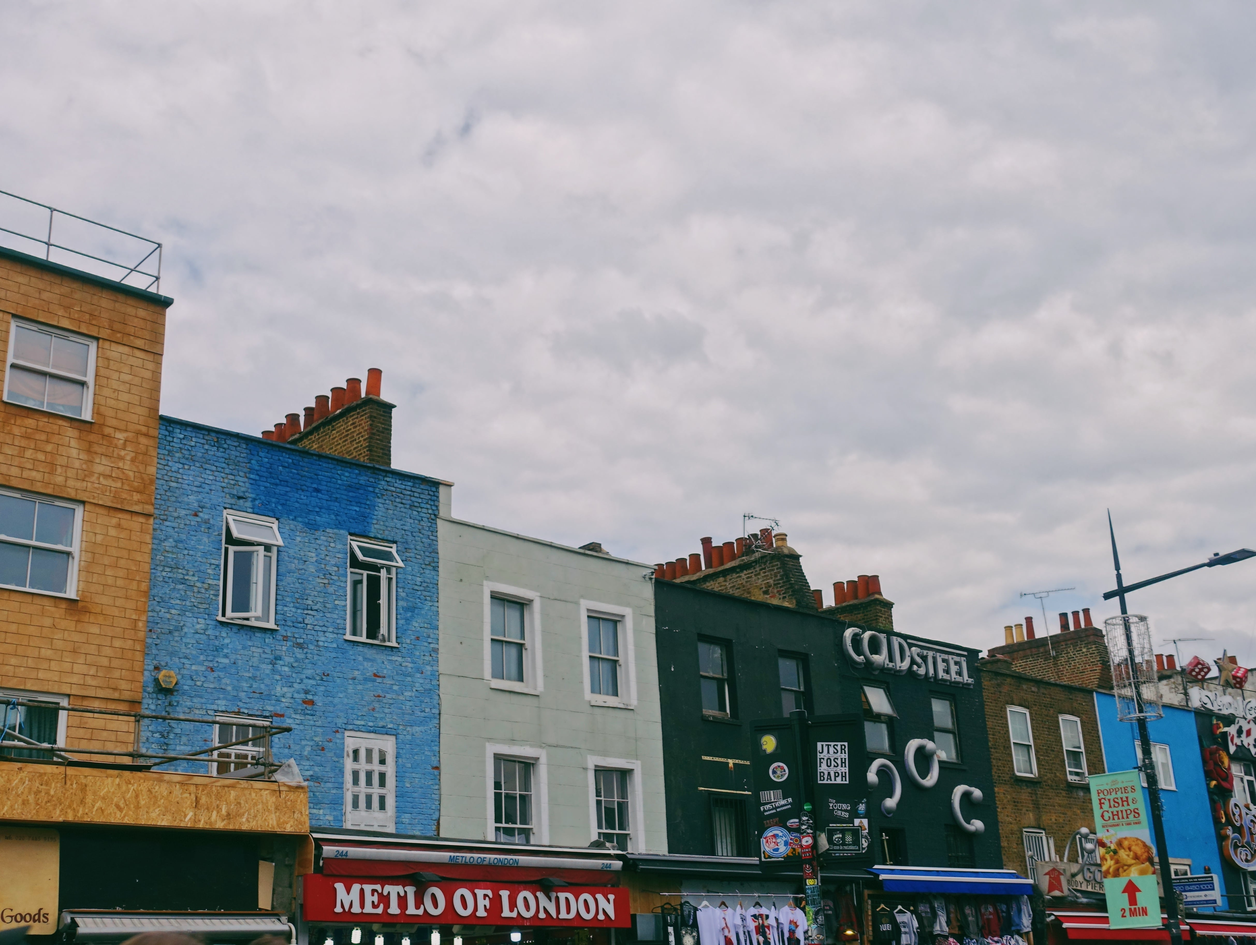
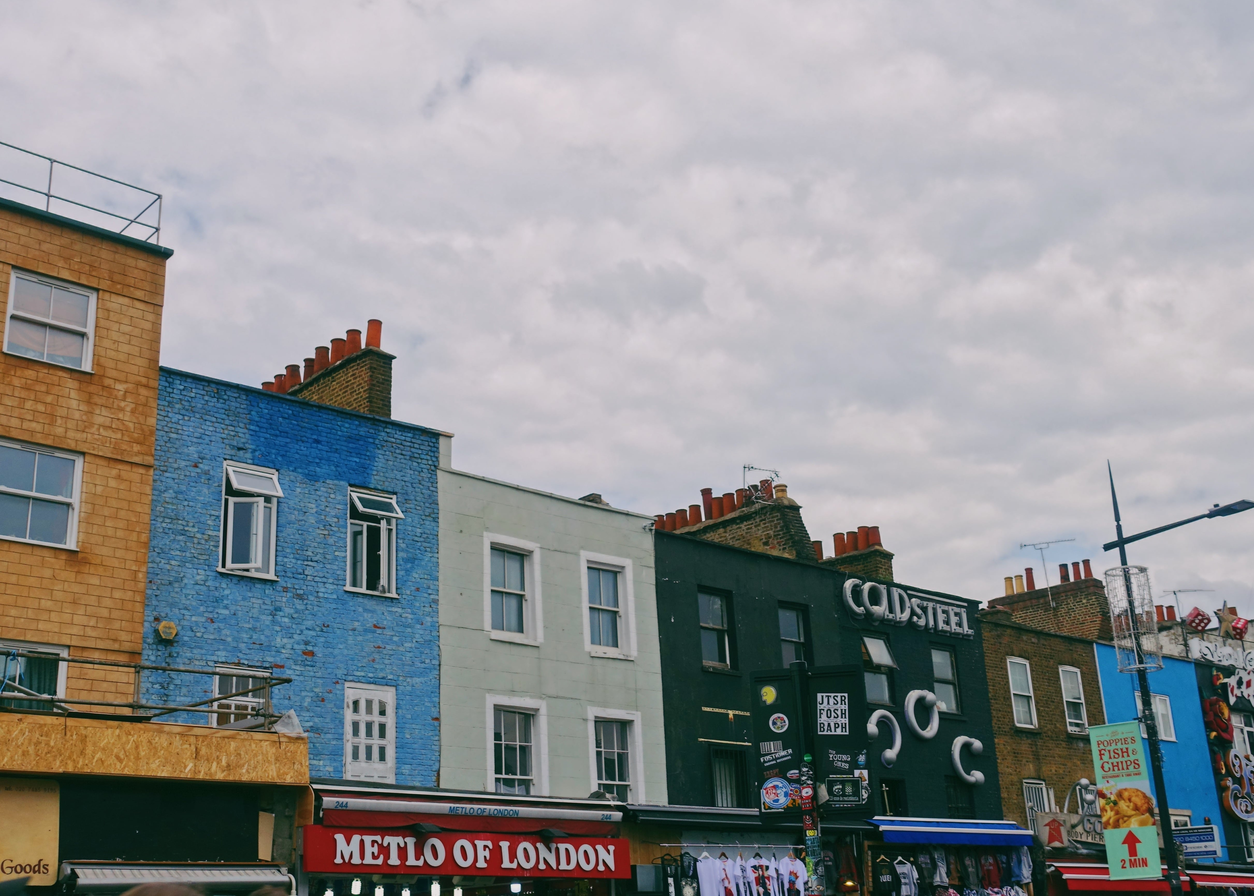
Resize gallery photos to the same dimensions, wrote text for gallery and blog

diff --git a/portfolio/src/main/webapp/index.html b/portfolio/src/main/webapp/index.html
@@ -189,72 +189,99 @@
             <span class="sr-only">Next</span>
           </a>
         </div>
+
+        <p id="gallery-text">
+          Whenever I travel anywhere, I always get fascinated by architecture and nature surrounding me.
+          I like the process of finding a good angle and lighting to showcase the beauty of what I see.
+        </p>
       </div>
 
       <div id="blog">
         <h1 class="section">Blog</h1>
         <div id="accordion">
           <div class="card">
-            <div class="card-header" id="headingOne">
+            <div class="card-header" id="blog-one">
               <h5 class="mb-0">
-                <button class="btn btn-link" data-toggle="collapse" data-target="#collapseOne" aria-expanded="true"
-                  aria-controls="collapseOne">
-                  Collapsible Group Item #1
+                <button class="btn btn-link" data-toggle="collapse" data-target="#collapse-one" aria-expanded="true"
+                  aria-controls="collapse-one">
+                  My favourite dance styles
                 </button>
               </h5>
             </div>
 
-            <div id="collapseOne" class="collapse show" aria-labelledby="headingOne" data-parent="#accordion">
+            <div id="collapse-one" class="collapse show" aria-labelledby="blog-one" data-parent="#accordion">
               <div class="card-body">
-                Anim pariatur cliche reprehenderit, enim eiusmod high life accusamus terry richardson ad squid. 3 wolf
-                moon officia aute, non cupidatat skateboard dolor brunch. Food truck quinoa nesciunt laborum eiusmod.
-                Brunch 3 wolf moon tempor, sunt aliqua put a bird on it squid single-origin coffee nulla assumenda
-                shoreditch et. Nihil anim keffiyeh helvetica, craft beer labore wes anderson cred nesciunt sapiente ea
-                proident. Ad vegan excepteur butcher vice lomo. Leggings occaecat craft beer farm-to-table, raw denim
-                aesthetic synth nesciunt you probably haven't heard of them accusamus labore sustainable VHS.
+               <p>Most people probably don't know what <strong>waacking, locking and house</strong> are. Well, these 3 things
+                are my escape from all the routine work I get from everyday life. These 3 things
+                are dance styles that I can't live without. All of them are very different, but 
+                I just happen to mix them in my freestyle all the time.  </p>
+               <p>Read the next 3 posts to understand what they are.</p>
               </div>
             </div>
           </div>
+
           <div class="card">
-            <div class="card-header" id="headingTwo">
+            <div class="card-header" id="blog-two">
               <h5 class="mb-0">
-                <button class="btn btn-link collapsed" data-toggle="collapse" data-target="#collapseTwo"
-                  aria-expanded="false" aria-controls="collapseTwo">
-                  Collapsible Group Item #2
+                <button class="btn btn-link collapsed" data-toggle="collapse" data-target="#collapse-two"
+                  aria-expanded="false" aria-controls="collapse-two">
+                  Waacking
                 </button>
               </h5>
             </div>
-            <div id="collapseTwo" class="collapse" aria-labelledby="headingTwo" data-parent="#accordion">
+            <div id="collapse-two" class="collapse" aria-labelledby="blog-two" data-parent="#accordion">
               <div class="card-body">
-                Anim pariatur cliche reprehenderit, enim eiusmod high life accusamus terry richardson ad squid. 3 wolf
-                moon officia aute, non cupidatat skateboard dolor brunch. Food truck quinoa nesciunt laborum eiusmod.
-                Brunch 3 wolf moon tempor, sunt aliqua put a bird on it squid single-origin coffee nulla assumenda
-                shoreditch et. Nihil anim keffiyeh helvetica, craft beer labore wes anderson cred nesciunt sapiente ea
-                proident. Ad vegan excepteur butcher vice lomo. Leggings occaecat craft beer farm-to-table, raw denim
-                aesthetic synth nesciunt you probably haven't heard of them accusamus labore sustainable VHS.
+               <p> Waacking was originated in the 1970s on the west coast in the US.  Waacking is 
+                usually described as a feminine dance, but surprisingly, it was founded by the gay community
+                to express their feelings and emotions. Waacking music
+                is usually disco, funk and female vocals. As for the moves, waackers, people
+                who dance waacking, use their arms and hands in a very fast pace to demonstrate the melody.</p>
               </div>
             </div>
           </div>
+
           <div class="card">
-            <div class="card-header" id="headingThree">
+            <div class="card-header" id="blog-three">
               <h5 class="mb-0">
-                <button class="btn btn-link collapsed" data-toggle="collapse" data-target="#collapseThree"
-                  aria-expanded="false" aria-controls="collapseThree">
-                  Collapsible Group Item #3
+                <button class="btn btn-link collapsed" data-toggle="collapse" data-target="#collapse-three"
+                  aria-expanded="false" aria-controls="collapse-three">
+                  Locking
                 </button>
               </h5>
             </div>
-            <div id="collapseThree" class="collapse" aria-labelledby="headingThree" data-parent="#accordion">
+            <div id="collapse-three" class="collapse" aria-labelledby="blog-three" data-parent="#accordion">
               <div class="card-body">
-                Anim pariatur cliche reprehenderit, enim eiusmod high life accusamus terry richardson ad squid. 3 wolf
-                moon officia aute, non cupidatat skateboard dolor brunch. Food truck quinoa nesciunt laborum eiusmod.
-                Brunch 3 wolf moon tempor, sunt aliqua put a bird on it squid single-origin coffee nulla assumenda
-                shoreditch et. Nihil anim keffiyeh helvetica, craft beer labore wes anderson cred nesciunt sapiente ea
-                proident. Ad vegan excepteur butcher vice lomo. Leggings occaecat craft beer farm-to-table, raw denim
-                aesthetic synth nesciunt you probably haven't heard of them accusamus labore sustainable VHS.
+               <p> Locking came to life in the 1960s in the US when its founder, Don Campbell, accidentally 
+                created a new move from a hip hop move "Robot Shuffle". Like waacking, locking is danced to 
+                funky and happy music. Lockers can be recognised because of their "locking" moves which 
+                are freezing from a fast movement and "locking" in a position by holding it for a short period of time
+                which is then followed by their fast moves.</p>
               </div>
             </div>
           </div>
+
+          <div class="card">
+            <div class="card-header" id="blog-four">
+              <h5 class="mb-0">
+                <button class="btn btn-link collapsed" data-toggle="collapse" data-target="#collapse-four"
+                  aria-expanded="false" aria-controls="collapse-four">
+                  House
+                </button>
+              </h5>
+            </div>
+            <div id="collapse-four" class="collapse" aria-labelledby="blog-four" data-parent="#accordion">
+              <div class="card-body">
+                <p>
+                  House dance was founded around 1980s in the night clubs of Chicago and New York. This
+                  was the time when house music started becoming more popular, so people created their own way
+                  to dance to it. House mostly involves very fast paced footwork, smooth body waves and floor work. 
+                  It was also heavily influenced by salsa and other latin dances. House dancers use 
+                  steps in their routine and create their own variations to foundational moves.
+                </p>
+              </div>
+            </div>
+          </div>
+
         </div>
       </div>
       <p></p>

diff --git a/portfolio/src/main/webapp/style.css b/portfolio/src/main/webapp/style.css
@@ -113,3 +113,15 @@ a:hover {
 .navbar-light {
   background-color:#e3f2fd !important;
 }
+
+#gallery-text {
+  padding-top: 40px;
+}
+
+
+@media only screen and (max-width: 600px) {
+  #carousel-gallery {
+    margin-left:0px;
+    margin-right: 0px;
+  }  
+}
